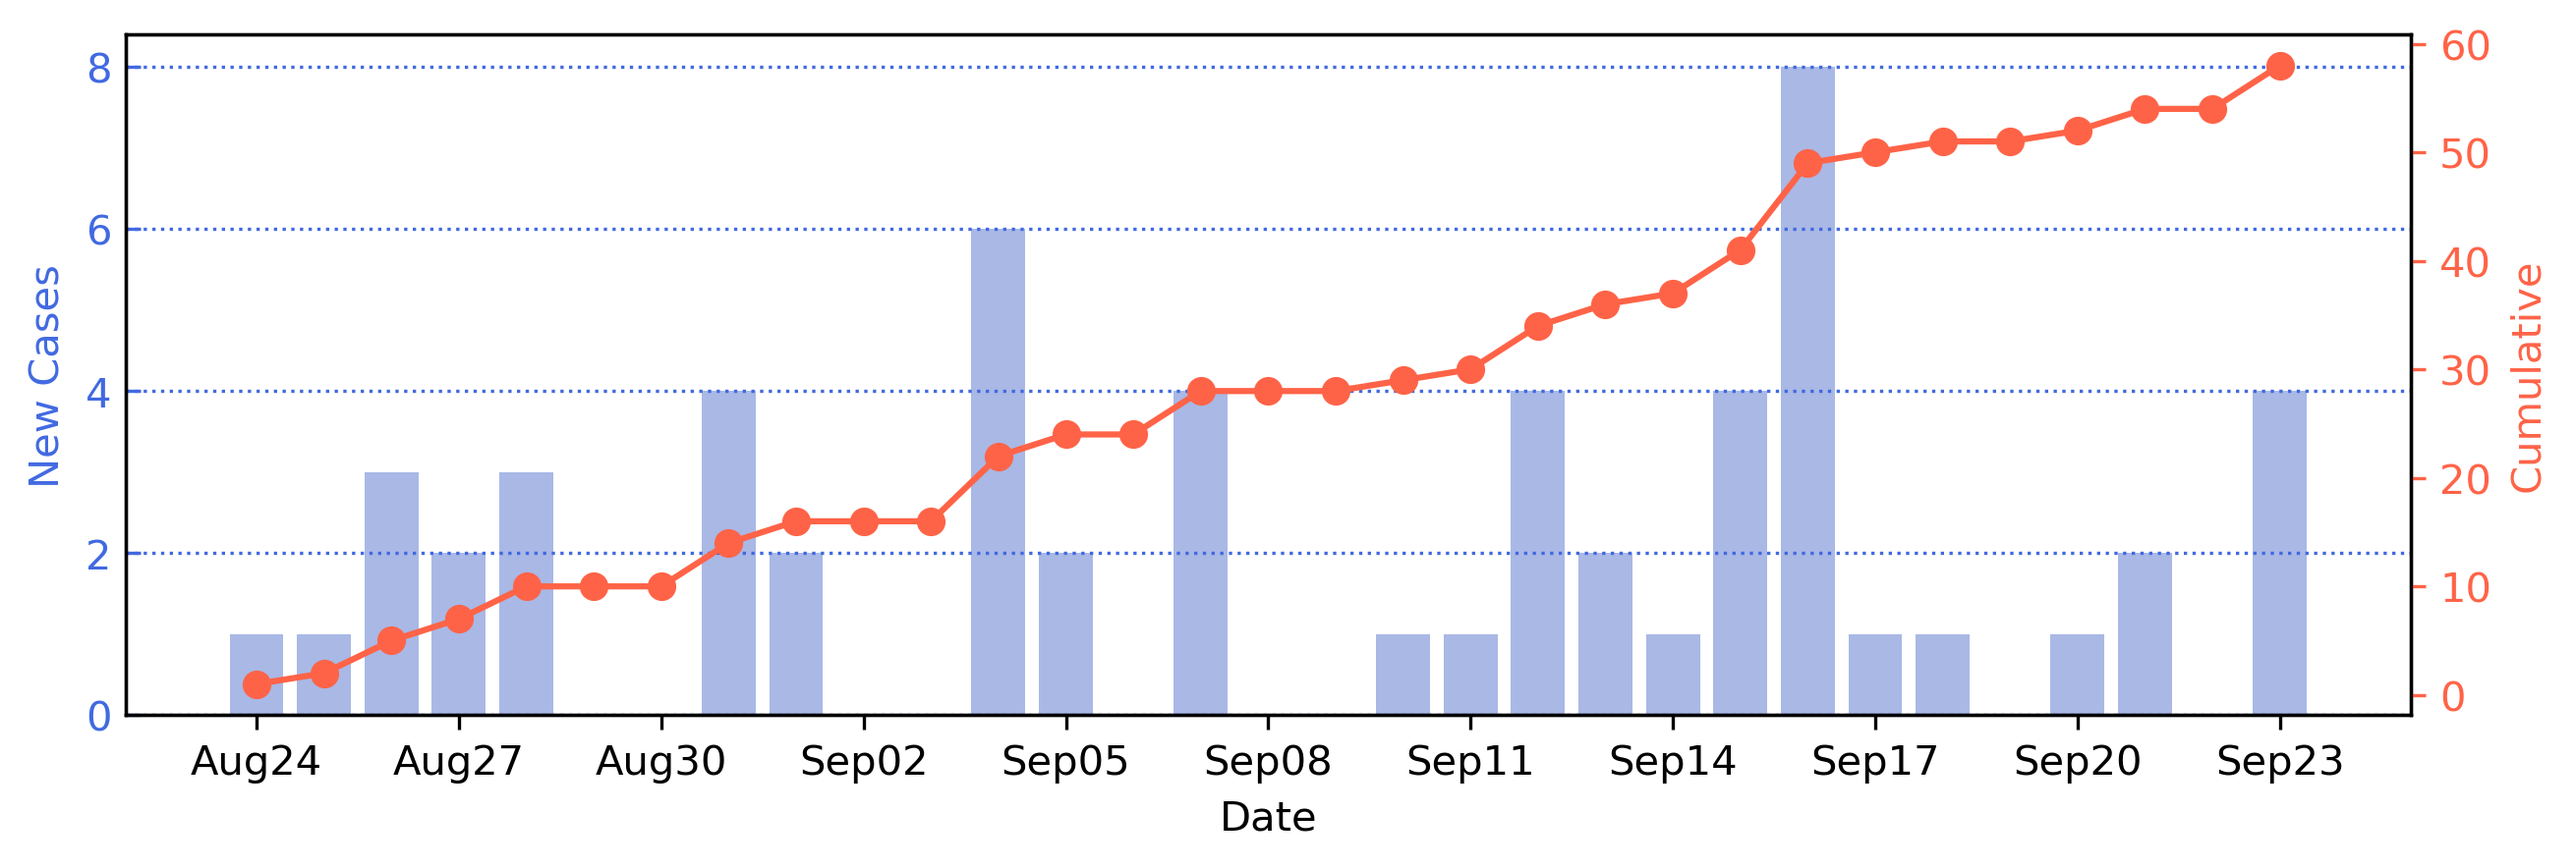
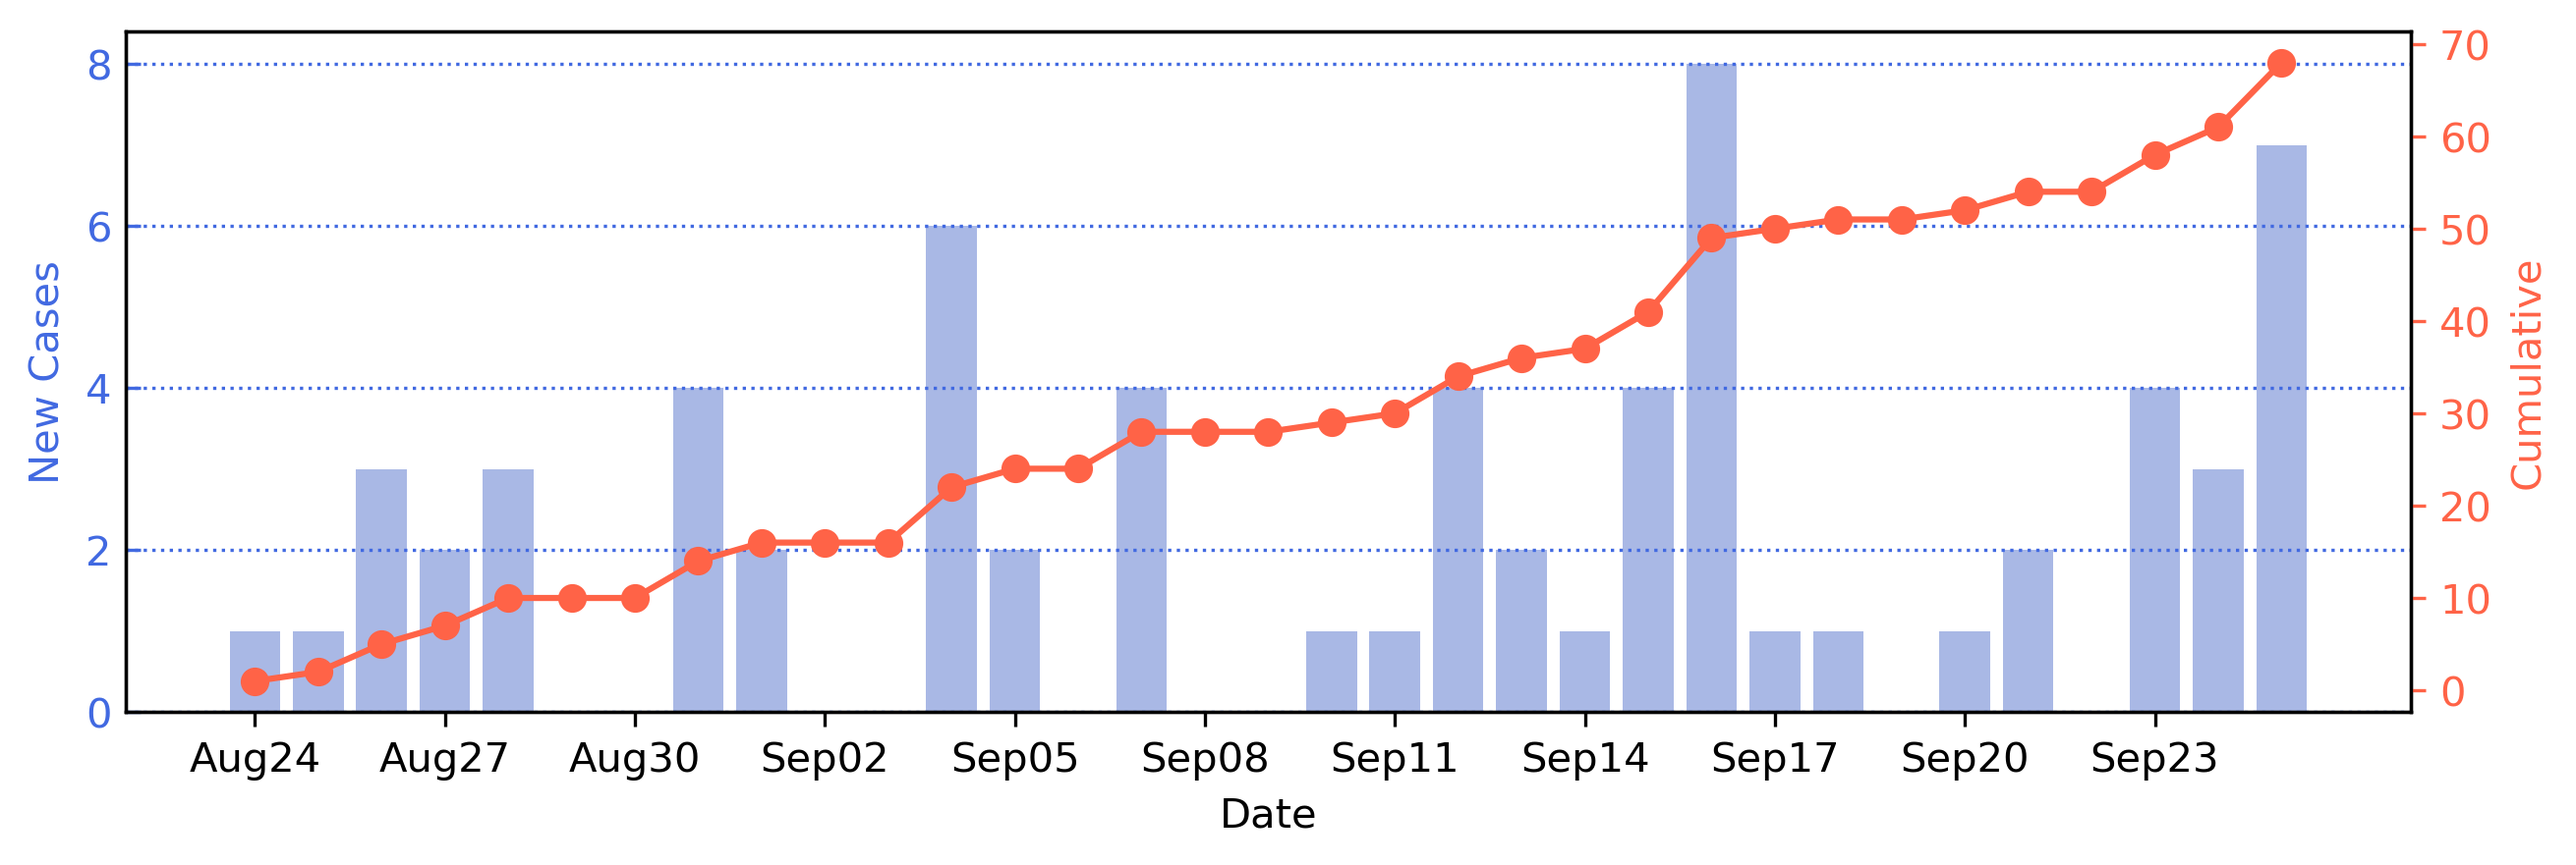
add new cases

diff --git a/index.html b/index.html
@@ -21,6 +21,8 @@
     <div class="row">
       <div class="col-md-6 offset-md-3">
         <h2>Source</h2>
+	<blockquote class="twitter-tweet"><p lang="en" dir="ltr">Seven new cases of COVID-19 have been confirmed to Rensselaer County Health Department, it was announced Friday.<br>However, with cases cleared for recovery Friday, active cases only increased by one. Hospitalizations remain low, continuing a recent trend: <a href="https://t.co/fqusrtwPGl">https://t.co/fqusrtwPGl</a></p>&mdash; RensselaerCo.Exec (@RenscoExecutive) <a href="https://twitter.com/RenscoExecutive/status/1309597810677997580?ref_src=twsrc%5Etfw">September 25, 2020</a></blockquote> <script async src="https://platform.twitter.com/widgets.js" charset="utf-8"></script> 
+	<blockquote class="twitter-tweet"><p lang="en" dir="ltr">Three new cases of COVID-19 (coronavirus) have been confirmed to the Rensselaer County Health Department, it was announced on Thursday.<br>The new cases bring total number of confirmed cases in the county to 932. There are now 27 active cases in the county: <a href="https://t.co/fqusrtwPGl">https://t.co/fqusrtwPGl</a> <a href="https://t.co/N2mh8z4cl9">pic.twitter.com/N2mh8z4cl9</a></p>&mdash; RensselaerCo.Exec (@RenscoExecutive) <a href="https://twitter.com/RenscoExecutive/status/1309228525195595785?ref_src=twsrc%5Etfw">September 24, 2020</a></blockquote> <script async src="https://platform.twitter.com/widgets.js" charset="utf-8"></script> 
         <blockquote class="twitter-tweet"><p lang="en" dir="ltr">No new COVID-19 cases confirmed to Rensselaer County Health Department, it was announced Tuesday.<br>Tuesday is sixth day in September where no new cases were reported, including Sept. 19th, 9th, 8th, 6th and 2nd: <a href="https://t.co/fqusrtwPGl">https://t.co/fqusrtwPGl</a> <a href="https://t.co/2Qi46kZSWM">pic.twitter.com/2Qi46kZSWM</a></p>&mdash; RensselaerCo.Exec (@RenscoExecutive) <a href="https://twitter.com/RenscoExecutive/status/1308459495681675265?ref_src=twsrc%5Etfw">September 22, 2020</a></blockquote> <script async src="https://platform.twitter.com/widgets.js" charset="utf-8"></script>
         <blockquote class="twitter-tweet"><p lang="en" dir="ltr">Two new cases of COVID-19 (coronavirus) have been confirmed to the Rensselaer County Health Department, it was announced on Monday.<br>The two new cases bring the total number of confirmed cases in the county to 925. There are now 24 active cases in county: <a href="https://t.co/fqusrtwPGl">https://t.co/fqusrtwPGl</a> <a href="https://t.co/0EbpGW3pWv">pic.twitter.com/0EbpGW3pWv</a></p>&mdash; RensselaerCo.Exec (@RenscoExecutive) <a href="https://twitter.com/RenscoExecutive/status/1308135684549599241?ref_src=twsrc%5Etfw">September 21, 2020</a></blockquote> <script async src="https://platform.twitter.com/widgets.js" charset="utf-8"></script>
         <blockquote class="twitter-tweet"><p lang="en" dir="ltr">A single new case of COVID-19 (coronavirus) has been confirmed to the Rensselaer County Health Department, it was announced on Friday.<br>The new case brings total number of confirmed cases in the county to 922. There are now 28 active cases in the county: <a href="https://t.co/fqusrtwPGl">https://t.co/fqusrtwPGl</a></p>&mdash; RensselaerCo.Exec (@RenscoExecutive) <a href="https://twitter.com/RenscoExecutive/status/1307058264035778563?ref_src=twsrc%5Etfw">September 18, 2020</a></blockquote> <script async src="https://platform.twitter.com/widgets.js" charset="utf-8"></script>
